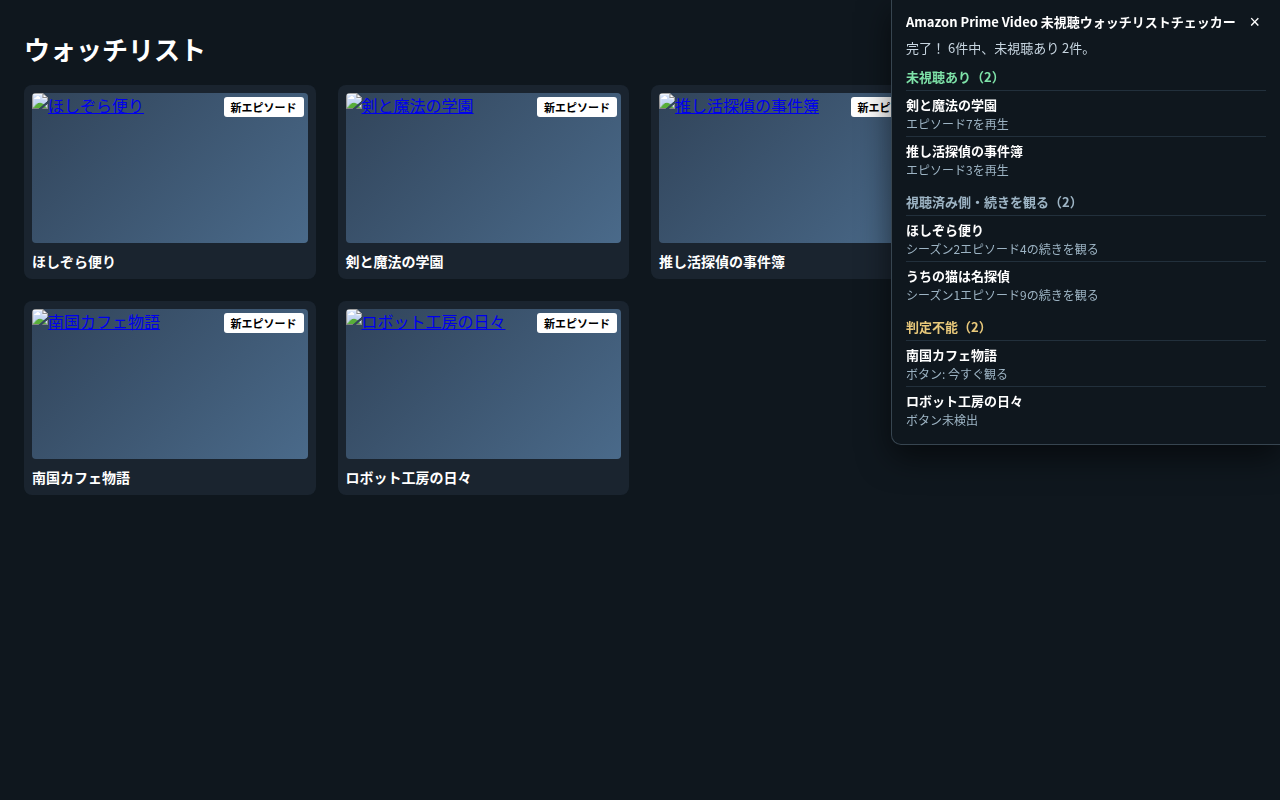
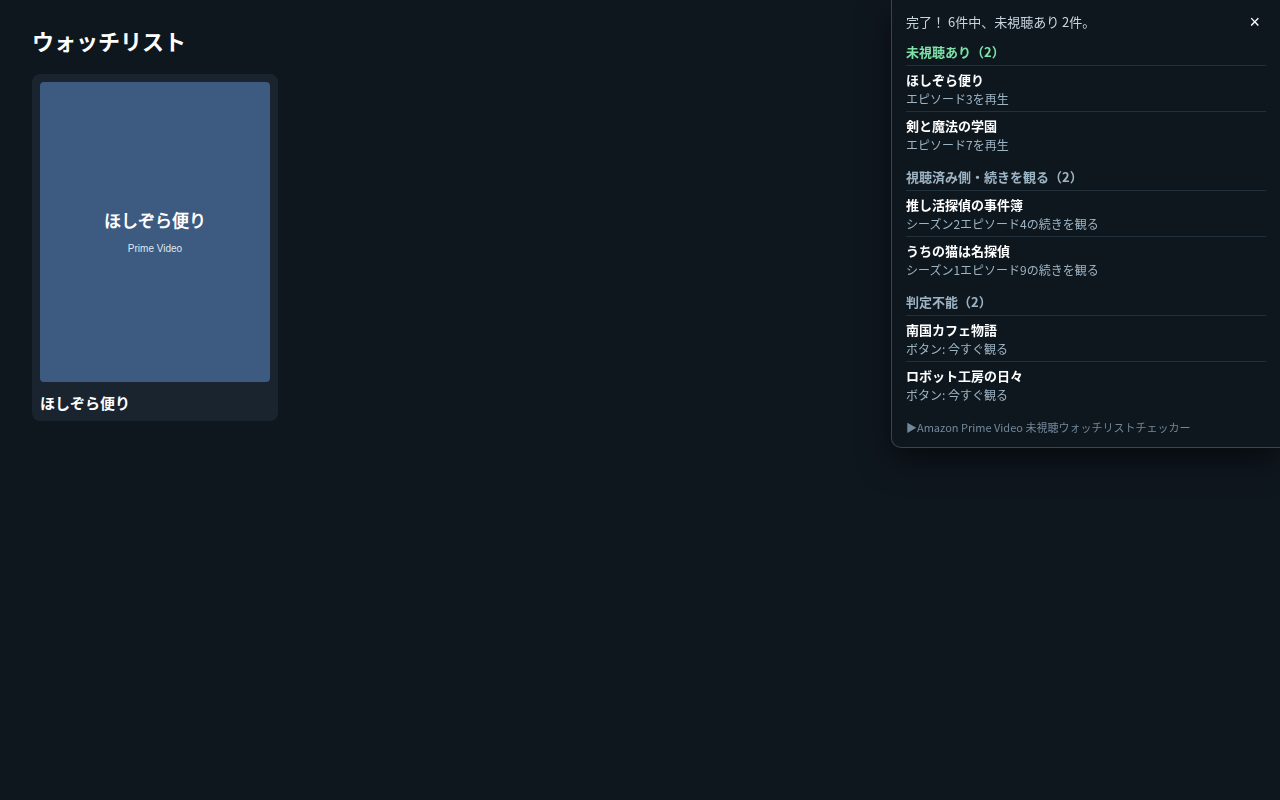
v1.0: first public release version, store screenshots retaken with current UI

Changed region(s): [[0.0, 0.0, 0.9375, 0.625]]

diff --git a/README.md b/README.md
@@ -4,6 +4,7 @@ Amazon Prime Video（amazon.co.jp）のウォッチリストを巡回して、**
 
 ## 変更履歴
 
+- **v1.0**（2026-11-04）: 初回公開版。バージョンを 1.0 にした（機能は v0.1.12 と同一）。ストア用スクリーンショットを現行 UI で撮り直し
 - **v0.1.12**（2026-11-04）: ポップアップの上部を詰める: 空のときも場所を取っていた通知欄（#note の min-height とマージン）を空のときは非表示にし、最初の見出しの上マージンと本体の上パディングも縮小（ボタンから最初の見出しまでの空白 約38px → 約8px）。ついでにボタンのホバー色も旧水色（#0db3f0）から Prime 青系（#2E8BFF）に統一
 - **v0.1.11**（2026-11-04）: (1) 結果パネルの「判定不能」見出しの色を金色（#e8c87a）から灰色（#9db4c4）に変更し、ポップアップ側の「判定不能」見出し（およびパネルの「視聴済み側」見出し）と色を統一。(2) パネルのレイアウトを上に詰める: 閉じる（×）ボタンを専用の行から「完了！」などのステータス文と同じ行の右端へ移した
 - **v0.1.10**（2026-11-04）: (1) 結果パネルもポップアップと同じ体裁に: 上部のアドオン名（2行に折り返していた）を削除し、最下部に灰色の小文字で「▶Amazon Prime Video 未視聴ウォッチリストチェッカー」と1行で表示。(2) ポップアップの「ウォッチリストをチェック」ボタンの色を Prime の青 #0578FF に変更（従来は #00A8E1）
